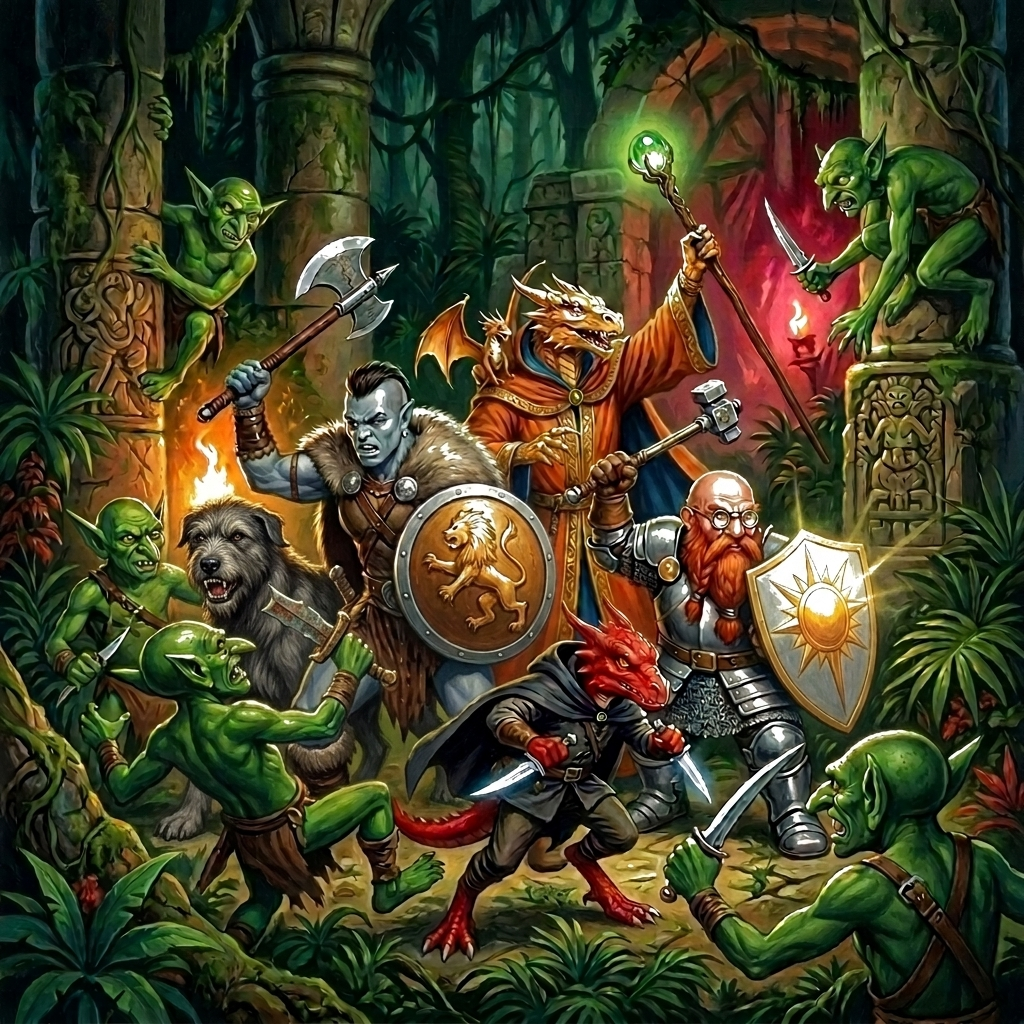
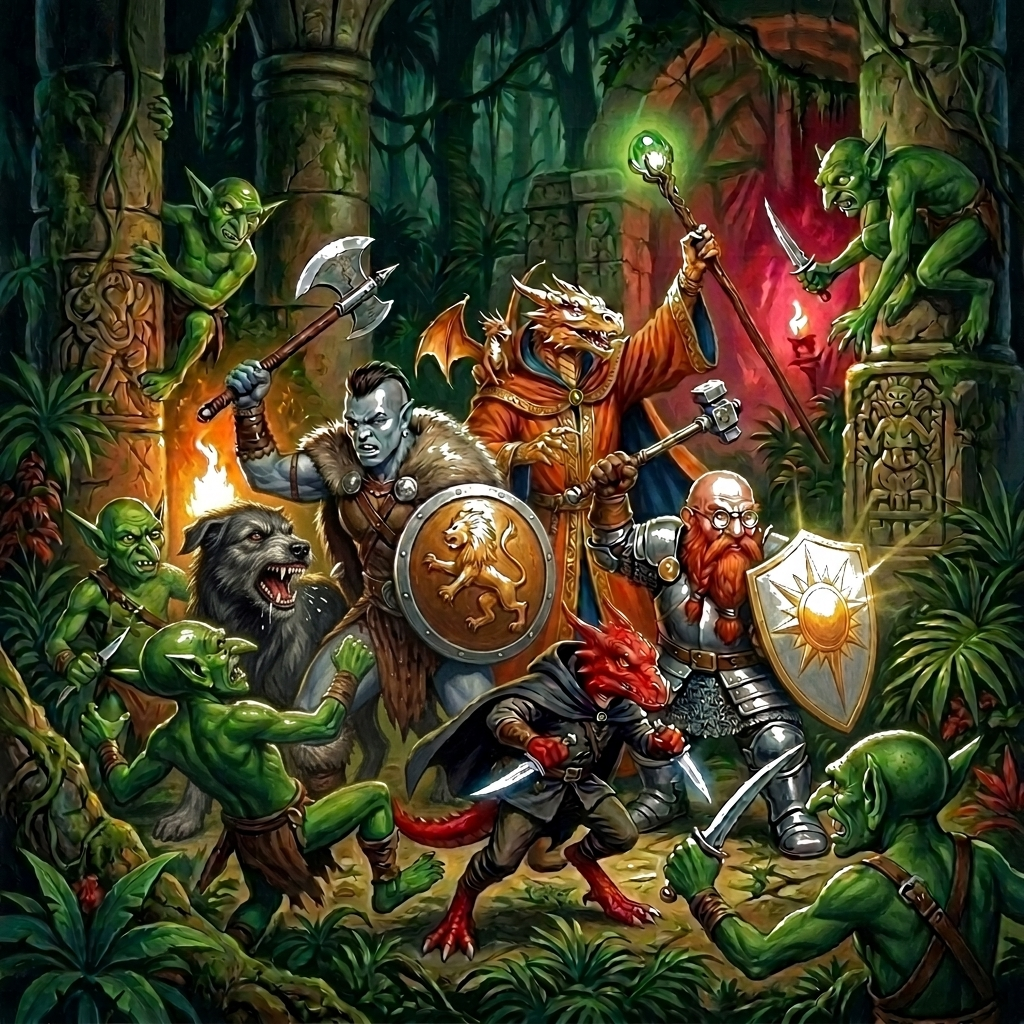
fix: adjust Loki gaze/snarl directly at the goblin on the left in cover art [skip netlify]

diff --git a/src/lib/build-info.ts b/src/lib/build-info.ts
@@ -1,3 +1,3 @@
 // Generated by scripts/write-build-info.mjs — do not edit
-export const SITE_EDITION = "97db686";
-export const SITE_BUILT_AT = "2026-07-27T16:15:57.130Z";
+export const SITE_EDITION = "289ef5d";
+export const SITE_BUILT_AT = "2026-07-27T16:17:06.282Z";
